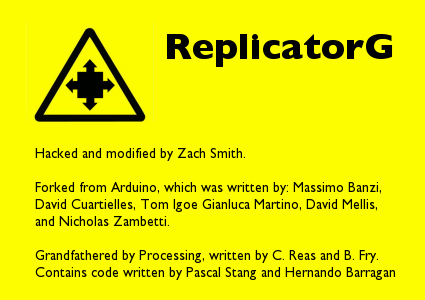
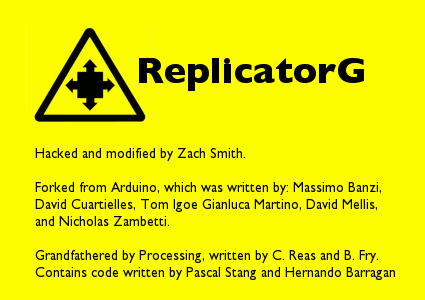
* Added machine name or not connected to title bar as per Charles' request.  Closes gh-116.

Changed region(s): [[0.3059, 0.09, 0.9482, 0.3]]

diff --git a/src/replicatorg/app/ui/MainWindow.java b/src/replicatorg/app/ui/MainWindow.java
@@ -1137,7 +1137,7 @@ public class MainWindow extends JFrame implements MRJAboutHandler, MRJQuitHandle
 	// so used internally for everything else
 
 	public void handleAbout() {
-		final Image image = Base.getImage("images/about.jpg", this);
+		final Image image = Base.getImage("images/about.png", this);
 		int w = image.getWidth(this);
 		int h = image.getHeight(this);
 		final Window window = new Window(this) {
@@ -1146,11 +1146,11 @@ public class MainWindow extends JFrame implements MRJAboutHandler, MRJQuitHandle
 
 				Graphics2D g2 = (Graphics2D) g;
 				g2.setRenderingHint(RenderingHints.KEY_TEXT_ANTIALIASING,
-						RenderingHints.VALUE_TEXT_ANTIALIAS_OFF);
+						RenderingHints.VALUE_TEXT_ANTIALIAS_ON);
 
 				g.setFont(new Font("SansSerif", Font.PLAIN, 13));
 				g.setColor(Color.black);
-				g.drawString(Base.VERSION_NAME, 166, 85);
+				g.drawString("Version "+Base.VERSION_NAME, 190, 95+g.getFontMetrics().getAscent());
 			}
 		};
 		window.addMouseListener(new MouseAdapter() {
@@ -1568,7 +1568,12 @@ public class MainWindow extends JFrame implements MRJAboutHandler, MRJQuitHandle
 				((OnboardParameters)machine.getDriver()).hasFeatureOnboardParameters();
 		onboardParamsItem.setVisible(showParams);
 		extruderParamsItem.setVisible(showParams);
-
+		// Advertise machine name
+		String name = "Not Connected";
+		if (showParams) {
+			name = machine.getName();
+		}
+		this.setTitle(WINDOW_TITLE+" - "+name);
 	}
 
 	public void setEditorBusy(boolean isBusy) {
